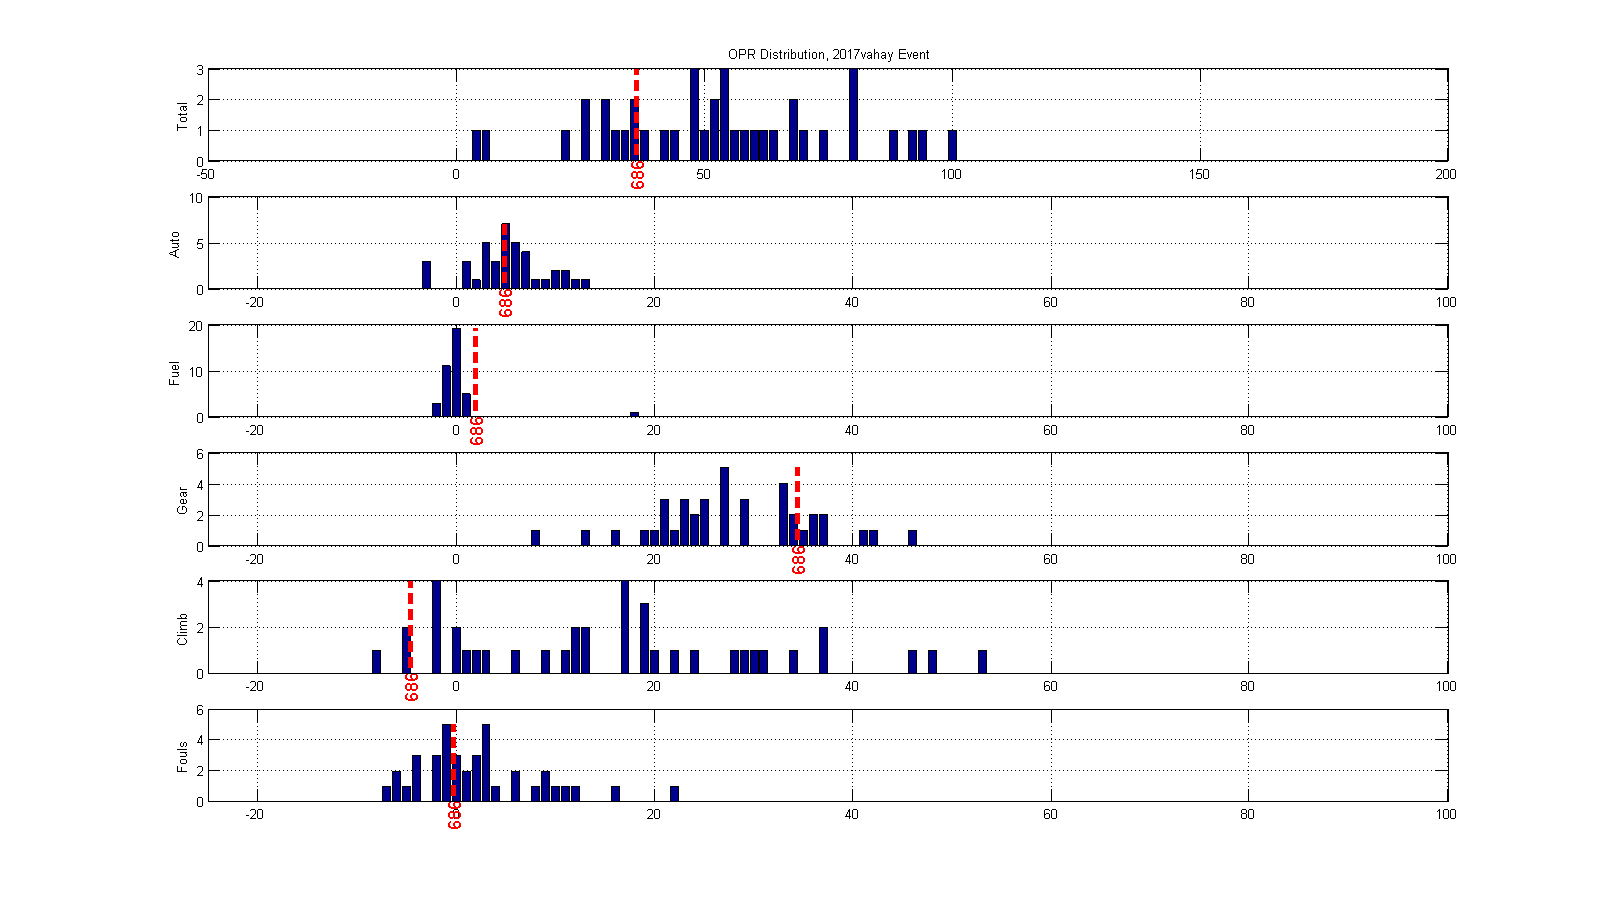
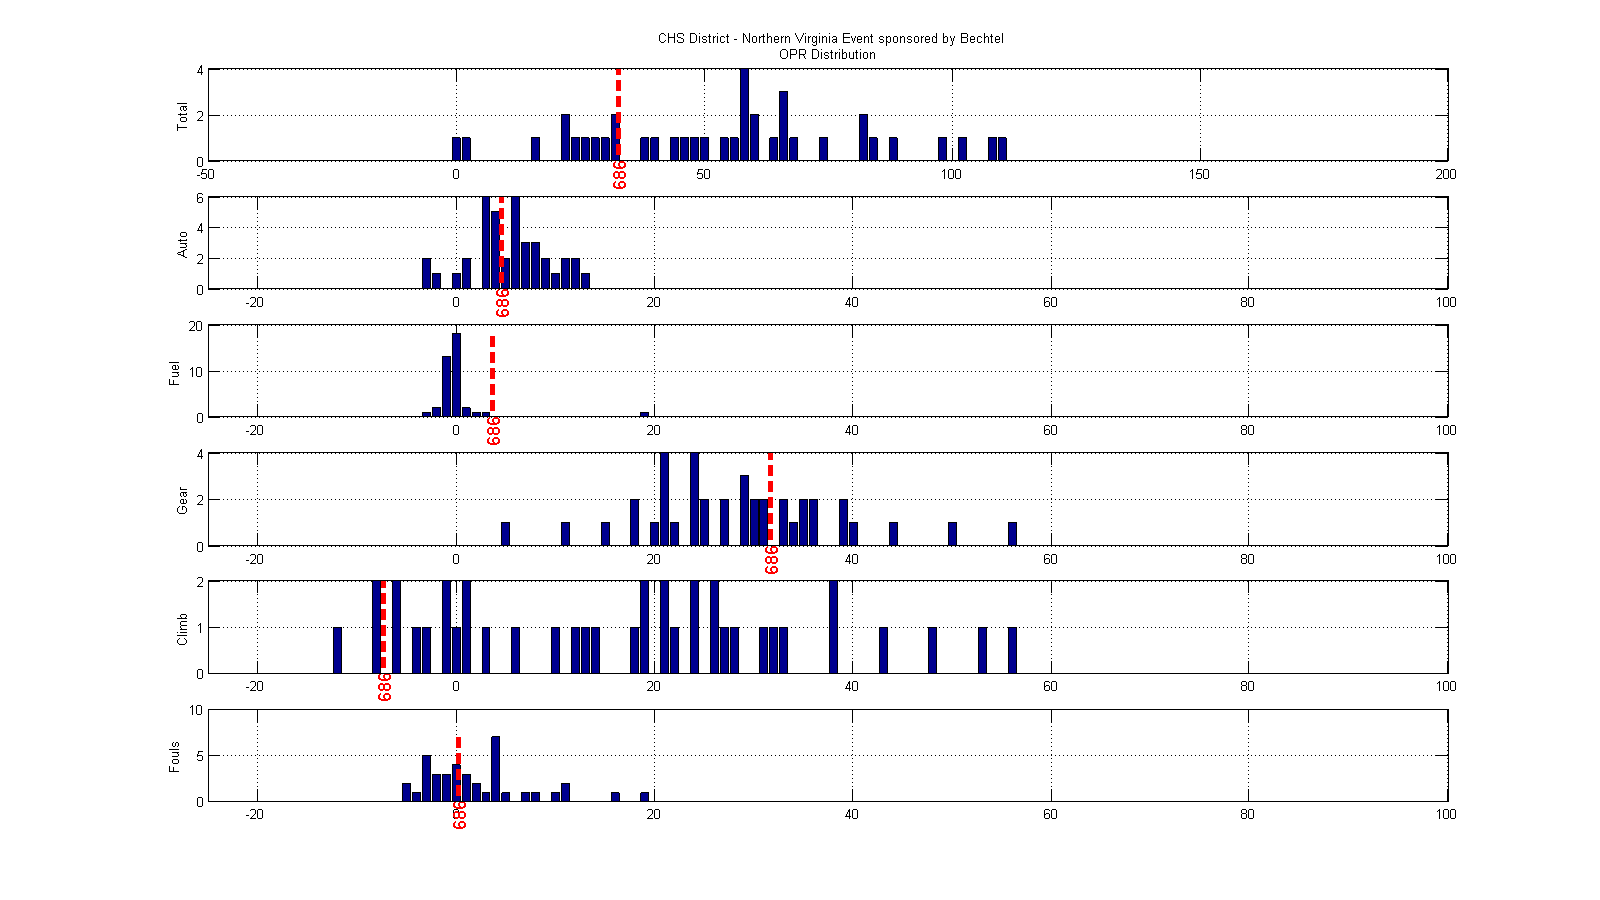
week2

diff --git a/TBA/calc_event_team_stats.m b/TBA/calc_event_team_stats.m
@@ -2,24 +2,34 @@
 
 ccc;
 
-directory = 'data/week0';
-event_name = '2017vahay';
+% directory = 'data/week0';   event_name = '2017vahay';
+% directory = 'data/week0';   event_name = '2017vabla';
+% directory = 'data/week1';   event_name = '2017mdbet';
+directory = 'data/week2';   event_name = '2017mdowi';
+% directory = 'data/week2';   event_name = '2017vapor';
+% directory = 'data/week3';   event_name = '2017mdedg';
+% directory = 'data/week3';   event_name = '2017vagle';
+% directory = 'data/week5';   event_name = '2017chcmp';
 
 font_size = 16;
 
-chs_teams = get_chs_teams();
-
-team_num = [];
-OPR = [];
-DPR = [];
-
 filename = sprintf('%s/%s.csv', directory, event_name);
 [team_num, stat_cols, OPR, DPR] = get_event_team_stats(filename);
+all_events = get_event_names();
+title_str = 'Unknown Event';
+for k=1:length(all_events)
+    if strcmp(all_events(k).key, event_name)
+        title_str = all_events(k).name;
+    end
+end
+       
 
 % sort
 [team_num, idx] = sort(team_num);
 OPR = OPR(idx,:);
 DPR = DPR(idx,:);
+
+team_686_idx = find(team_num == 686);
 
 TOTAL = 1;
 AUTO  = 2;
@@ -29,13 +39,6 @@ CLIMB = 5;
 FOUL  = 6;
 
 
-
-chs_team_idx = ismember(team_num, chs_teams);
-team_num = team_num(chs_team_idx).';
-team_686_idx = find(team_num == 686);
-
-OPR = OPR(chs_team_idx,:);
-DPR = DPR(chs_team_idx,:);
 
 % OPR(OPR<0) = 0; % remove negative numbers that mess up stacked bar plots
 
@@ -52,14 +55,14 @@ hold off;
 grid on;
 xlabel('Team Number');
 ylabel('OPR');
-title(sprintf('%s Event', event_name));
+title(title_str);
 
 
 figure;
 bar(1:length(team_num), sorted_OPR(:,[AUTO GEAR FOUL CLIMB FUEL]), 'stacked');
 grid on;
 ylabel('OPR');
-title(sprintf('%s Event', event_name));
+title(title_str);
 legend('Auto', 'Gear', 'Foul', 'Climb', 'Fuel', 'Location', 'NorthWest');
 for k=1:length(team_num)
     h = text(k,sorted_OPR(k)+1,num2str(sorted_team_num(k),'%d'),...
@@ -81,7 +84,7 @@ subplot(311);
 bar(1:length(team_num), x);
 % grid on;
 ylabel('Auto OPR');
-title(sprintf('%s Event', event_name));
+title(title_str);
 for k=1:length(team_num)
     h = text(k,x(k)+1,num2str(team_num(i(k)),'%d'),...
         'Rotation',90,'HorizontalAlignment','Left','VerticalAlignment','Middle','FontSize',font_size);
@@ -128,7 +131,7 @@ end
 xlim([0 length(team_num)+1]);
 ylim([-5 30]);
 set(gcf,'PaperUnits','inches','PaperPosition',[0 0 16 9]);
-print('-dpng', sprintf('plots/%s_opr_bar2.png',event_name), '-r100');
+print('-dpng', sprintf('plots/%s_opr_bkdn_1.png',event_name), '-r100');
 
 figure;
 subplot(211);
@@ -136,7 +139,7 @@ subplot(211);
 bar(1:length(team_num), x);
 % grid on;
 ylabel('Gear OPR');
-title(sprintf('%s Event', event_name));
+title(title_str);
 for k=1:length(team_num)
     h = text(k,x(k)+1,num2str(team_num(i(k)),'%d'),...
         'Rotation',90,'HorizontalAlignment','Left','VerticalAlignment','Middle','FontSize',font_size);
@@ -166,7 +169,7 @@ end
 xlim([0 length(team_num)+1]);
 ylim([-5 70]);
 set(gcf,'PaperUnits','inches','PaperPosition',[0 0 16 9]);
-print('-dpng', sprintf('plots/%s_opr_bar3.png',event_name), '-r100');
+print('-dpng', sprintf('plots/%s_opr_bkdn_2.png',event_name), '-r100');
 
 
 
@@ -182,7 +185,7 @@ hold on;
 line([-1000 1000], [-1000 1000], 'color', 'k', 'linestyle', '--');
 plot(DPR(team_686_idx), OPR(team_686_idx), 'ro');
 hold off;
-title(sprintf('%s Event', event_name));
+title(title_str);
 for k=1:length(team_num)
     h = text(DPR(k,TOTAL)+0.5,OPR(k,TOTAL)+0.5,num2str(team_num(k),'%d'),...
         'Rotation',45,'HorizontalAlignment','Left','VerticalAlignment','Middle','FontSize',font_size);
@@ -210,17 +213,17 @@ for col = TOTAL:FOUL
     subplot(FOUL,1,col);
     n = histc(OPR(:,col),edges);
     bar(edges,n);
-    hold on;
-    line([1 1]*OPR(team_686_idx,col), [0 max(n)], 'Color','red', 'LineStyle','--', 'LineWidth',3);
-    h = text(OPR(team_686_idx,col),0,'686',...
-        'Rotation',90,'HorizontalAlignment','Right','VerticalAlignment',...
-        'Middle','FontSize',font_size, 'Color', 'r');
-    hold off;
+    if ~isempty(team_686_idx)
+        line([1 1]*OPR(team_686_idx,col), [0 max(n)], 'Color','red', 'LineStyle','--', 'LineWidth',3);
+        h = text(OPR(team_686_idx,col),0,'686',...
+            'Rotation',90,'HorizontalAlignment','Right','VerticalAlignment',...
+            'Middle','FontSize',font_size, 'Color', 'r');
+    end
     xlim([edges(1) edges(end)]);
     ylabel(stat_cols(col));
     grid on;
     if col==1
-        title(sprintf('OPR Distribution, %s Event', event_name));
+        title(sprintf('%s\nOPR Distribution', title_str));
     end
 end
 set(gcf,'PaperUnits','inches','PaperPosition',[0 0 16 9]);
@@ -236,17 +239,17 @@ for col = TOTAL:FOUL
     subplot(FOUL,1,col);
     n = histc(DPR(:,col),edges);
     bar(edges,n);
-    hold on;
-    line([1 1]*DPR(team_686_idx,col), [0 max(n)], 'Color','red', 'LineStyle','--', 'LineWidth',3);
-    h = text(DPR(team_686_idx,col),0,'686',...
-        'Rotation',90,'HorizontalAlignment','Right','VerticalAlignment',...
-        'Middle','FontSize',font_size, 'Color', 'r');
-    hold off;
+    if ~isempty(team_686_idx)
+        line([1 1]*DPR(team_686_idx,col), [0 max(n)], 'Color','red', 'LineStyle','--', 'LineWidth',3);
+        h = text(DPR(team_686_idx,col),0,'686',...
+            'Rotation',90,'HorizontalAlignment','Right','VerticalAlignment',...
+            'Middle','FontSize',font_size, 'Color', 'r');
+    end
     xlim([edges(1) edges(end)]);
     ylabel(stat_cols(col));
     grid on;
     if col==1
-        title(sprintf('DPR Distribution, %s Event', event_name));
+        title(sprintf('%s\nDPR Distribution', title_str));
     end
 end
 set(gcf,'PaperUnits','inches','PaperPosition',[0 0 16 9]);
@@ -264,17 +267,17 @@ for col = TOTAL:FOUL
     subplot(FOUL,1,col);
     n = histc(CCWM(:,col),edges);
     bar(edges,n);
-    hold on;
-    line([1 1]*CCWM(team_686_idx,col), [0 max(n)], 'Color','red', 'LineStyle','--', 'LineWidth',3);
-    h = text(CCWM(team_686_idx,col),0,'686',...
-        'Rotation',90,'HorizontalAlignment','Right','VerticalAlignment',...
-        'Middle','FontSize',font_size, 'Color', 'r');
-    hold off;
+    if ~isempty(team_686_idx)
+        line([1 1]*CCWM(team_686_idx,col), [0 max(n)], 'Color','red', 'LineStyle','--', 'LineWidth',3);
+        h = text(CCWM(team_686_idx,col),0,'686',...
+            'Rotation',90,'HorizontalAlignment','Right','VerticalAlignment',...
+            'Middle','FontSize',font_size, 'Color', 'r');
+    end
     xlim([edges(1) edges(end)]);
     ylabel(stat_cols(col));
     grid on;
     if col==1
-        title(sprintf('CCWM Distribution, %s Event', event_name));
+        title(sprintf('%s\nCCWM Distribution', title_str));
     end
 end
 set(gcf,'PaperUnits','inches','PaperPosition',[0 0 16 9]);

diff --git a/TBA/get_event_team_stats.m b/TBA/get_event_team_stats.m
@@ -1,7 +1,7 @@
 function [team_num, stat_cols, OPR, DPR] = get_event_team_stats(filename)
 
-QUAL_MATCHES_ONLY = 1;          % set to 1 to match TBA's OPR
-RANKING_POINTS_TO_SCORE = 0;    % set to 0 to match TBA's OPR
+QUAL_MATCHES_ONLY = 0;          % set to 1 to match TBA's OPR
+RANKING_POINTS_TO_SCORE = 1;    % set to 0 to match TBA's OPR
 
 if QUAL_MATCHES_ONLY
     filter = 'qm';
@@ -50,8 +50,10 @@ if ~isempty(data)
     
     if RANKING_POINTS_TO_SCORE
     % convert ranking points to points
-        score(:,FUEL) = score(:,FUEL) +  20*cell2mat(data(:,fuel_rp_col));
-        score(:,GEAR) = score(:,GEAR) + 100*cell2mat(data(:,gear_rp_col));
+        score(:,TOTAL) = score(:,TOTAL) +  20*cell2mat(data(:,fuel_rp_col));
+        score(:, FUEL) = score(:, FUEL) +  20*cell2mat(data(:,fuel_rp_col));
+        score(:,TOTAL) = score(:,TOTAL) + 100*cell2mat(data(:,gear_rp_col));
+        score(:, GEAR) = score(:, GEAR) + 100*cell2mat(data(:,gear_rp_col));
     end
     
     Team_Matrix = [];

diff --git a/TBA/getFiles.py b/TBA/getFiles.py
@@ -28,6 +28,29 @@ with open(filename, 'wb') as csvFile:
 
 event_list = tba.tba_get('events/2017')
 
+# get list of event names
+rec = np.zeros(len(event_list), dtype=[('event_key','U16'), ('event_name','U80')])
+for e in range(0, len(event_list)):
+    rec[e] = ( event_list[e]['key'], event_list[e]['name'] )
+
+directory = "data"
+if not os.path.exists(directory):
+    os.makedirs(directory)
+
+filename = directory + "/events.csv"
+with open(filename, 'wb') as csvFile:
+    np.savetxt(csvFile, rec, '%s', delimiter=",")
+
+
+
+
+
+
+
+
+
+
+
 for event in event_list:
     
     event_start_date = datetime.strptime(event['start_date'], '%Y-%m-%d')    # convert date string to date structure

diff --git a/TBA/calc_chs_team_stats.m b/TBA/calc_chs_team_stats.m
@@ -147,7 +147,7 @@ end
 xlim([0 length(team_num)+1]);
 ylim([-5 30]);
 set(gcf,'PaperUnits','inches','PaperPosition',[0 0 16 9]);
-print -dpng plots/chs_opr_bar2.png -r100;
+print -dpng plots/chs_opr_bkdn_1.png -r100;
 
 figure;
 subplot(211);
@@ -185,7 +185,7 @@ end
 xlim([0 length(team_num)+1]);
 ylim([-5 70]);
 set(gcf,'PaperUnits','inches','PaperPosition',[0 0 16 9]);
-print -dpng plots/chs_opr_bar3.png -r100;
+print -dpng plots/chs_opr_bkdn_2.png -r100;
 
 
 

diff --git a/TBA/get_event_names.m b/TBA/get_event_names.m
@@ -1,0 +1,13 @@
+function events = get_event_names
+
+fid = fopen('data\events.csv');
+events = [];
+k = 1;
+while ~feof(fid)
+    line = fgetl(fid);
+    d = regexp(line, ',', 'split');
+    events(k).key = d{1};
+    events(k).name = d{2};
+    k = k+1;
+end
+fclose(fid);

diff --git a/TBA/calc_all_team_stats.m b/TBA/calc_all_team_stats.m
@@ -83,6 +83,7 @@ ylabel('OPR');
 figure;
 bar(percentile, sorted_OPR(:,[AUTO GEAR FOUL CLIMB FUEL]), 'stacked');
 grid on;
+xlabel('Percentile');
 ylabel('OPR');
 title('All Teams');
 legend('Auto', 'Gear', 'Foul', 'Climb', 'Fuel', 'Location', 'NorthWest');
